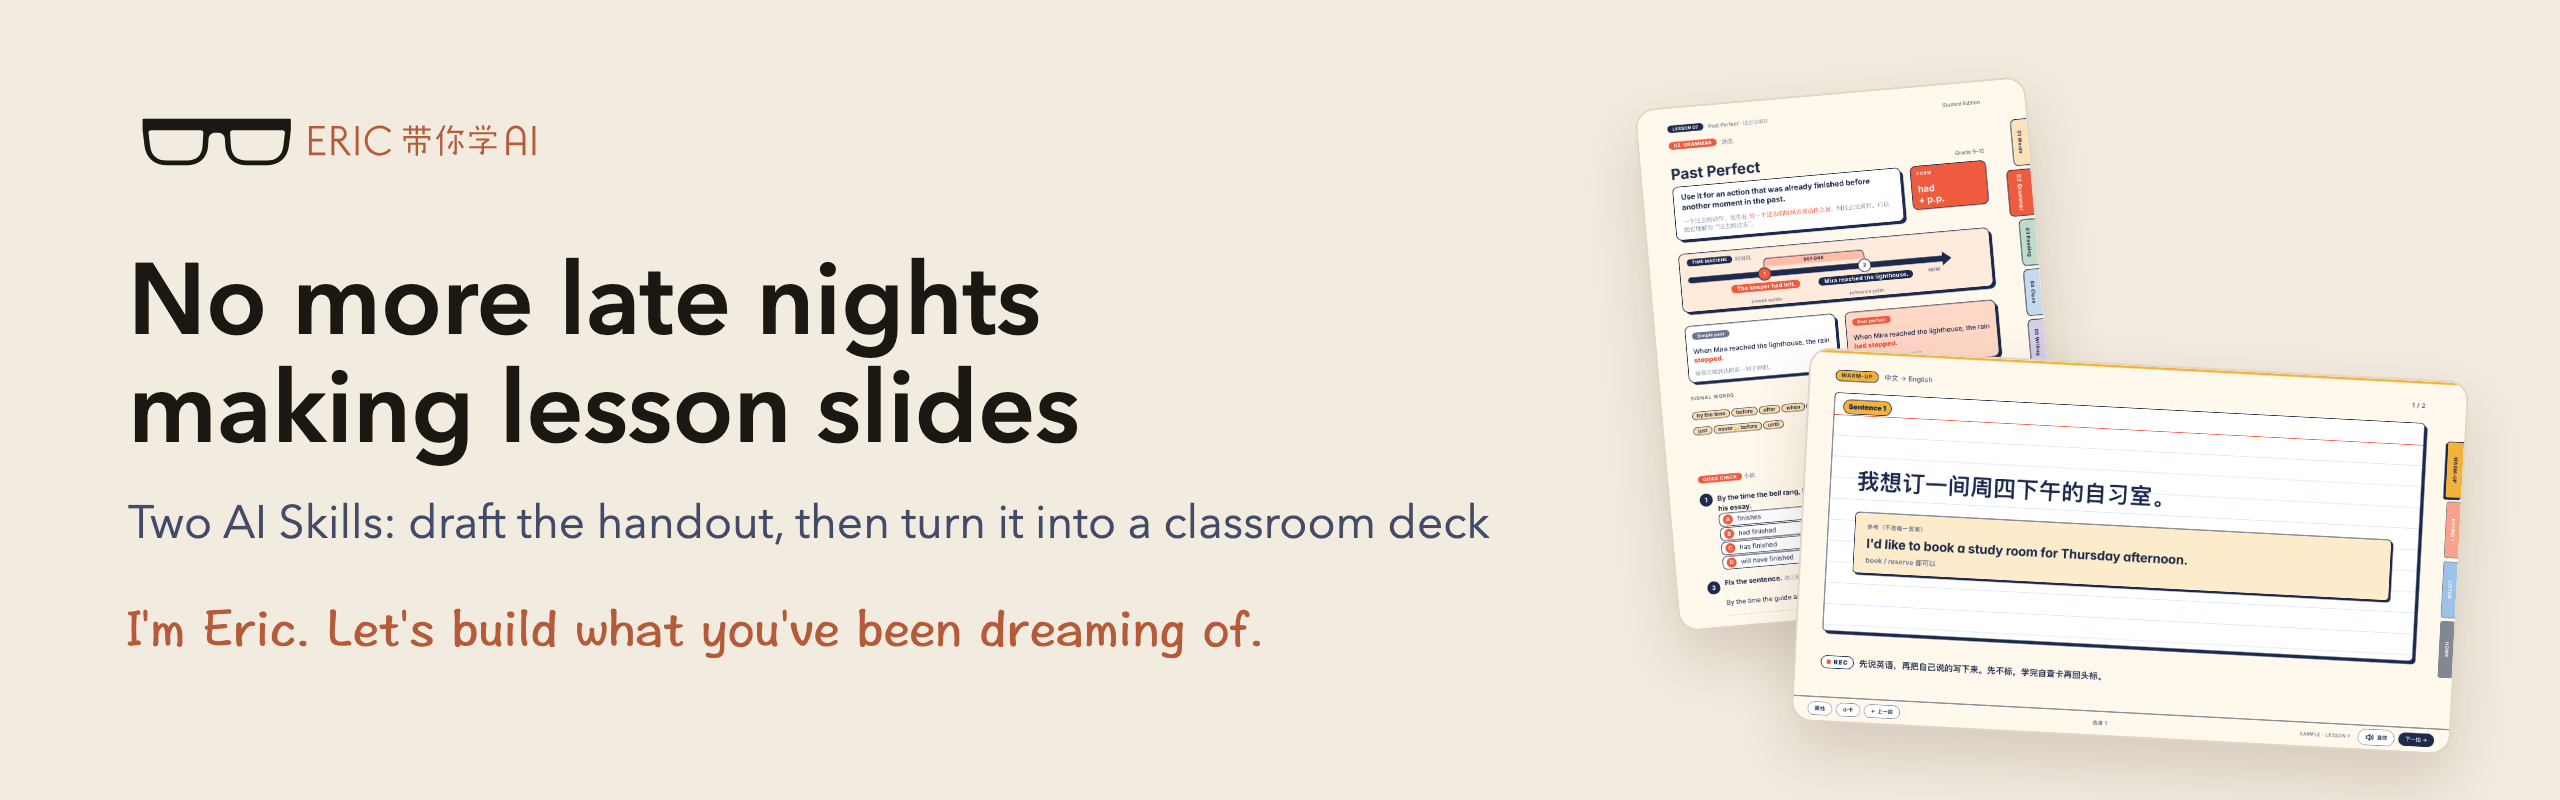
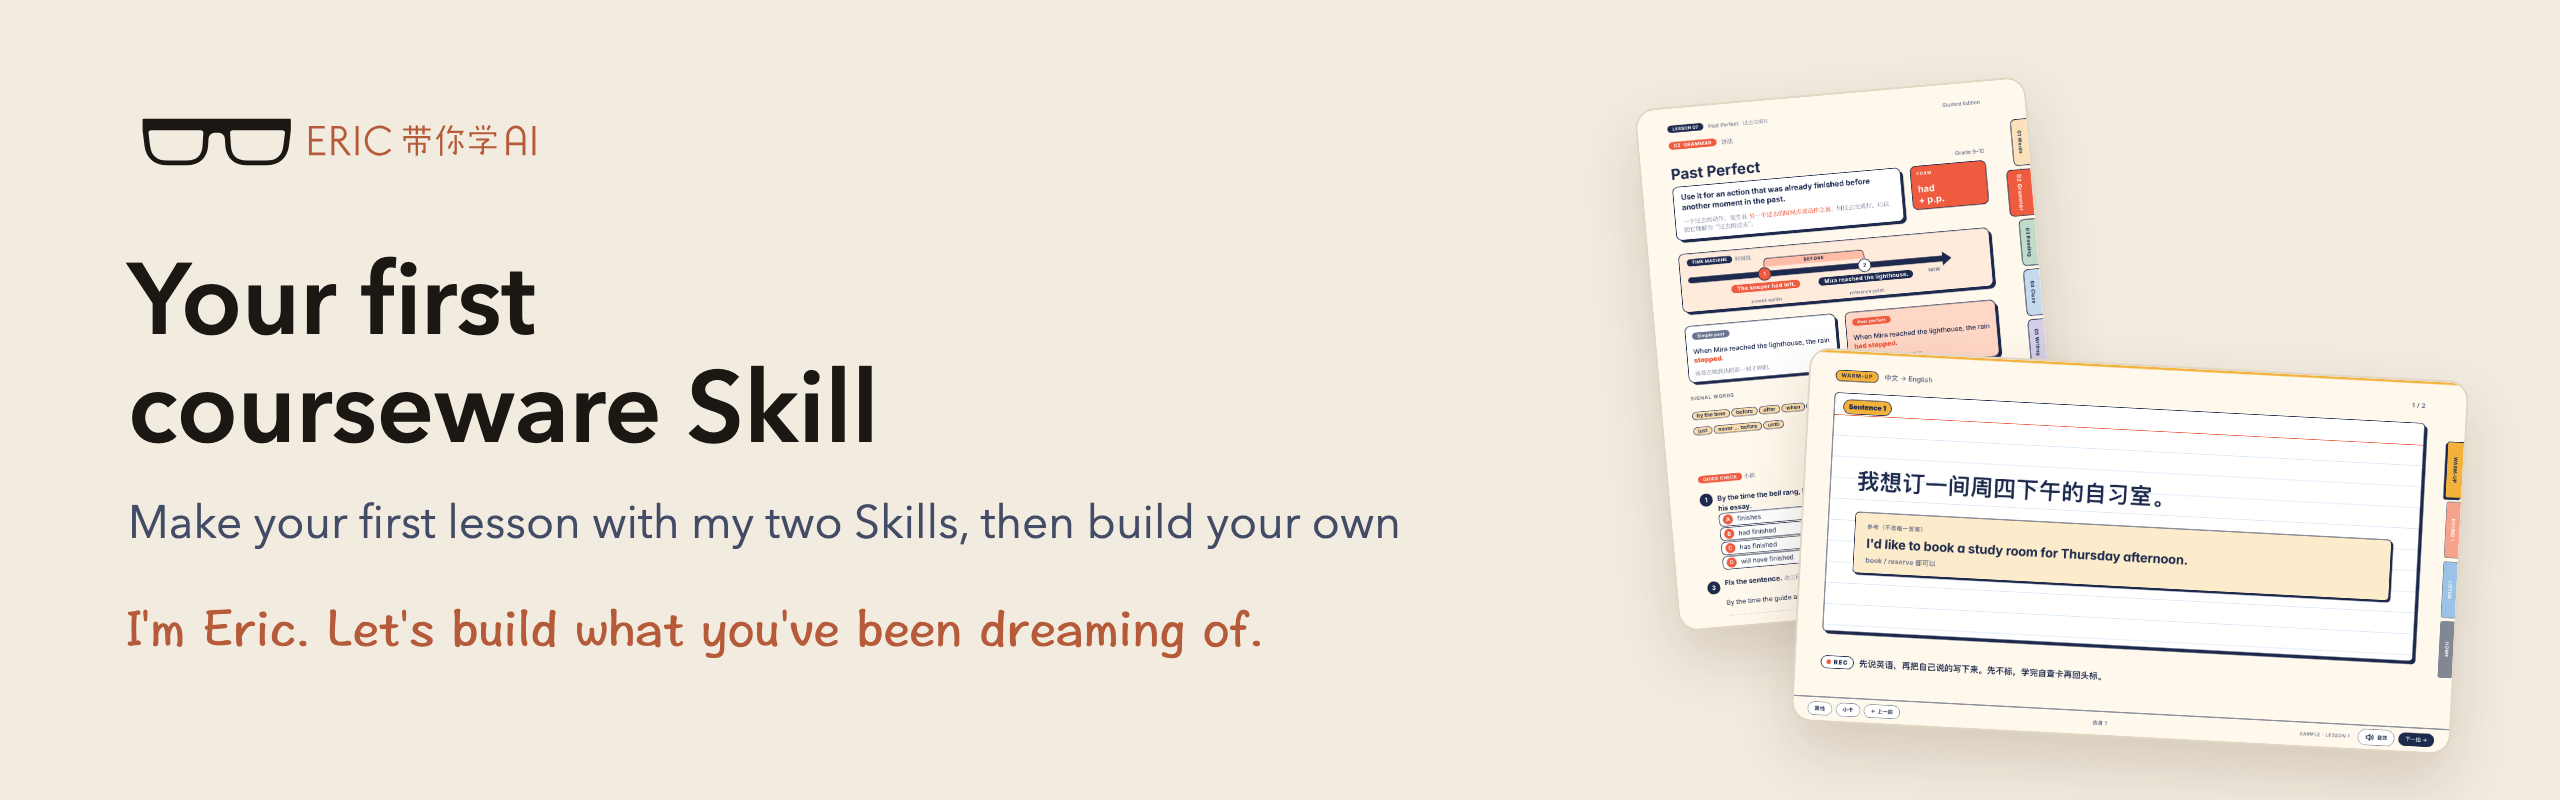
改名「你的第一个课件 Skill」：横幅、简介、仓库链接；规矩改称规则；「做你自己的 Skill」改成说清要什么、不要什么，交给 AI 写

Changed region(s): [[0.0312, 0.3125, 0.4375, 0.5938], [0.0312, 0.625, 0.5938, 0.6875]]

diff --git a/README.en.md b/README.en.md
@@ -1,12 +1,12 @@
 <p align="center">
-  <img src="assets/banner-en.png" alt="No more late nights making lesson slides: two AI Skills for teachers · Eric带你学AI" width="100%">
+  <img src="assets/banner-en.png" alt="Your first courseware Skill · Eric带你学AI" width="100%">
 </p>
 
 <p align="center"><a href="README.md">中文</a>　｜　<b>English</b></p>
 
 I used to stay up late making lesson slides. Then I started writing down the rules I care about in class, one at a time, and saved them into two Skills: one drafts the handout, the other turns that handout into the deck I teach from. Once a rule is written down clearly, the AI reads it before every new lesson, so I never have to say the same thing twice.
 
-This is the first episode of my 「你的第一个……」 ("Your first …") series, and I'm sharing both Skills here. You can use them as they are to make your first lesson deck, or use them as a model for writing a Skill of your own, built from what you know in your own line of work.
+This is the first episode of my 「你的第一个……」 ("Your first …") series: **your first courseware Skill**. I'm sharing both Skills here. Use them as they are to make your first lesson, then tell an AI the few things you care about in your own classes and get a courseware Skill of your own.
 
 > **What's a Skill?** A set of instructions written for an AI. It tells the AI how a certain kind of task is done, where it tends to go wrong, and how to check the result. The AI reads it every time before it starts.
 
@@ -40,7 +40,7 @@ Copy this message to it. It will read the instructions, check what your computer
 
 ```text
 Please install the teaching Skills from 「Eric带你学AI」:
-https://github.com/eric4umd/teaching-skills
+https://github.com/eric4umd/first-courseware-skill
 
 Start by reading the repo README and both SKILL.md files,
 and confirm whether you support local Skills.
@@ -95,19 +95,41 @@ Even when the AI says it has checked everything, that doesn't mean nothing is wr
 - If there's listening, check that the player and the note-taking boxes are on the same page.
 - Go through the handout's questions, answers and explanations once.
 
-When something is off, tell it: **which page, what's wrong, what it looks like now, and what it should look like.** If you'll want it that way in every lesson, add: "Write this into the Skill's rules."
+When something is off, tell it: **which page, what's wrong, what it looks like now, and what it should look like.** If you'll want it that way in every lesson, add: "Write this into the Skill."
 
-## Write a Skill of your own
+## Make your own first courseware Skill
 
-These two Skills were written around my own English classes. If you teach another subject, or you're not a teacher at all, what you care about will be different.
+These two Skills were written around my own English classes. If you teach another subject or another grade, what you care about will be different.
 
-Every time you've told an AI "that's not right," you were drawing on experience from your own line of work, something the AI can't guess on its own. Turn each one into a rule with three parts:
+You don't have to write a Skill word by word yourself. Your job is to know what you want in it and what you don't, and tell the AI. The writing is its job.
 
-1. **What went wrong.** The listening player landed on the next page, so one press of the space bar and the whole recording was gone.
-2. **What to do from now on.** Put the note-taking boxes and the player on the same page, and stop the teacher from moving on before the recording has played.
-3. **When there's an exception, and how to check.** If the teacher really wants to skip, one more press lets them through. When testing, try that stop on purpose.
+**Put in**
 
-Collect a few rules like these, hand them to the AI together with a finished piece you're happy with, and ask it to write a Skill. Weekly reports, quotes, any document you rebuild every week: the same approach works.
+- **When to use it.** One line saying what it's for. The AI reads that line to decide whether to use the Skill.
+- **The things you care about.** Every "that's not right" you've told an AI: what was wrong and what it should be instead. For example, the listening player goes on the same page as the note-taking boxes, and the deck stops you from moving on before the recording has played.
+- **What stays your call.** The AI can't hear audio, so for voices, have it make an audition page and you pick.
+
+**Leave out**
+
+- **Anything that changes every time**, like what this lesson covers or which student it's for. Say that in each conversation.
+- **Vague wishes** like "make it look nice." The AI can't tell what counts as nice, and nobody can check it afterwards. Be specific instead: "English examples in a sans-serif font, readable on a projected screen."
+
+The easiest start is to use my Skill as the base and say:
+
+```text
+Using eric-teaching-stage as the base, make me a courseware Skill
+of my own.
+I teach [subject, grade], [how you teach, e.g. one-on-one online].
+The things I care about:
+1. [what was wrong, and what it should be instead]
+2. [...]
+These stay my call: [e.g. example sentences, difficulty].
+When it's written, use it to make [a new lesson] and show me.
+```
+
+When something's off later, tell it which page, what it looks like now and what it should look like, then add: "Write this into the Skill." You don't need everything on day one. Start with the few things you care about most, and add one each time you use it.
+
+Not a teacher? Same idea. Weekly reports, quotes, any document you rebuild every week can get a Skill of its own this way.
 
 ## Software you'll need
 
@@ -142,6 +164,6 @@ I haven't chosen a license yet for my own instructions, code and layouts. Being 
 
 ---
 
-Made something with these? Or is there something you've always wanted to build but thought you couldn't? Tell me in the comments under the 「Eric带你学AI」 videos, or open an [issue](https://github.com/eric4umd/teaching-skills/issues) here.
+Made something with these? Or is there something you've always wanted to build but thought you couldn't? Tell me in the comments under the 「Eric带你学AI」 videos, or open an [issue](https://github.com/eric4umd/first-courseware-skill/issues) here.
 
 **I'm Eric. Let's build what you've been dreaming of.**

diff --git a/eric-teaching-stage/SKILL.md b/eric-teaching-stage/SKILL.md
@@ -5,7 +5,7 @@ description: '【教学网页·有声】Build teacher-controlled HTML classroom 
 
 # Eric Teaching Stage
 
-Companion Skill for the 「Eric带你学AI」 teaching tutorials. Read [the repository guide](https://github.com/eric4umd/teaching-skills#readme) for installation and dependencies. Use the directory containing this file as `SKILL_ROOT`; commands below run from that directory.
+Companion Skill for the 「Eric带你学AI」 teaching tutorials. Read [the repository guide](https://github.com/eric4umd/first-courseware-skill#readme) for installation and dependencies. Use the directory containing this file as `SKILL_ROOT`; commands below run from that directory.
 
 Build a classroom deck that looks and feels like a finished product: D3 Index Cards visuals, soft sound design, and a listening player that speaks like a person. Everything runs from a double-clicked `lesson.html`, offline, in Safari, Chrome and screen share.
 

diff --git a/eric-teaching-press/SKILL.md b/eric-teaching-press/SKILL.md
@@ -7,7 +7,7 @@ metadata:
 
 # Eric Teaching Press
 
-Companion Skill for the 「Eric带你学AI」 teaching tutorials. Start with [the repository guide](https://github.com/eric4umd/teaching-skills#readme). D1 Marginalia, D2 Grid and D3 Index Cards share one lesson-content source. Choose a style from [styles.md](references/styles.md) to fit the material.
+Companion Skill for the 「Eric带你学AI」 teaching tutorials. Start with [the repository guide](https://github.com/eric4umd/first-courseware-skill#readme). D1 Marginalia, D2 Grid and D3 Index Cards share one lesson-content source. Choose a style from [styles.md](references/styles.md) to fit the material.
 
 Use the skill directory containing this file as `SKILL_ROOT`; resolve a symlink to its target. All resource paths below are relative to that root. Work in a new authorized output folder, never inside the installed assets or the original exploration.
 
